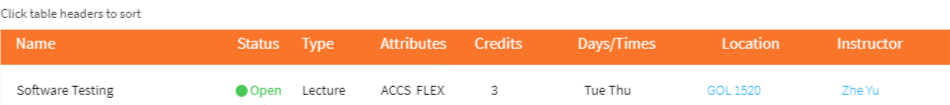
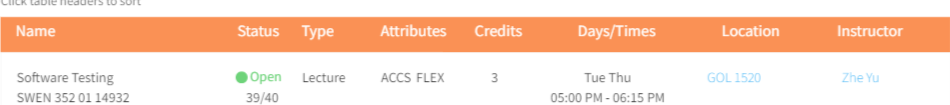
Did the next part

diff --git a/SeleniumTest/src/testing/TigerCenterTest2.java b/SeleniumTest/src/testing/TigerCenterTest2.java
@@ -2,22 +2,20 @@ package testing;
 
 import static org.junit.jupiter.api.Assertions.assertEquals;
 
-import java.io.File;
+import java.util.ArrayList;
+import java.util.List;
 import java.util.concurrent.TimeUnit;
 
 import org.junit.jupiter.api.AfterEach;
 import org.junit.jupiter.api.BeforeEach;
 import org.junit.jupiter.api.Test;
 import org.openqa.selenium.By;
-import org.openqa.selenium.OutputType;
 import org.openqa.selenium.WebDriver;
 import org.openqa.selenium.WebElement;
 import org.openqa.selenium.chrome.ChromeDriver;
 import org.openqa.selenium.support.ui.ExpectedConditions;
 import org.openqa.selenium.support.ui.Select;
 import org.openqa.selenium.support.ui.WebDriverWait;
-
-import com.google.common.io.Files;
 
 public class TigerCenterTest2
 {
@@ -66,10 +64,25 @@ public class TigerCenterTest2
 		
 		WebElement table = wait.until(ExpectedConditions.visibilityOfElementLocated(By.xpath("/html/body/div[1]/app-root/div[2]/mat-sidenav-container[2]/mat-sidenav-content/div[2]/class-search/div/div[2]/div[4]/div[5]")));
 		
-		File f = new File("screenshot.png");
-		f.createNewFile();
-		Files.copy(table.getScreenshotAs(OutputType.FILE), f);
-		// /html/body/div[1]/app-root/div[2]/mat-sidenav-container[2]/mat-sidenav-content/div[2]/class-search/div/div[2]/div[4]/div[5]
+		List<String> toFind = new ArrayList<>();
+		toFind.add("Tue Thu");
+		toFind.add("05:00 PM - 06:15 PM");
+		toFind.add("Zhe Yu");
+		toFind.add("GOL 1520");
+		
+		for(WebElement e : table.findElements(By.cssSelector("app-class-search-row.ng-star-inserted")))
+		{
+			for(String s : e.getText().split("\n"))
+			{
+				if(toFind.contains(s))
+				{
+					toFind.remove(s);
+				}
+			}
+			
+			assertEquals(new ArrayList<>(), toFind);
+		}
+		// Days, Time, Location & instructor of the class.
 	}
 
 }
